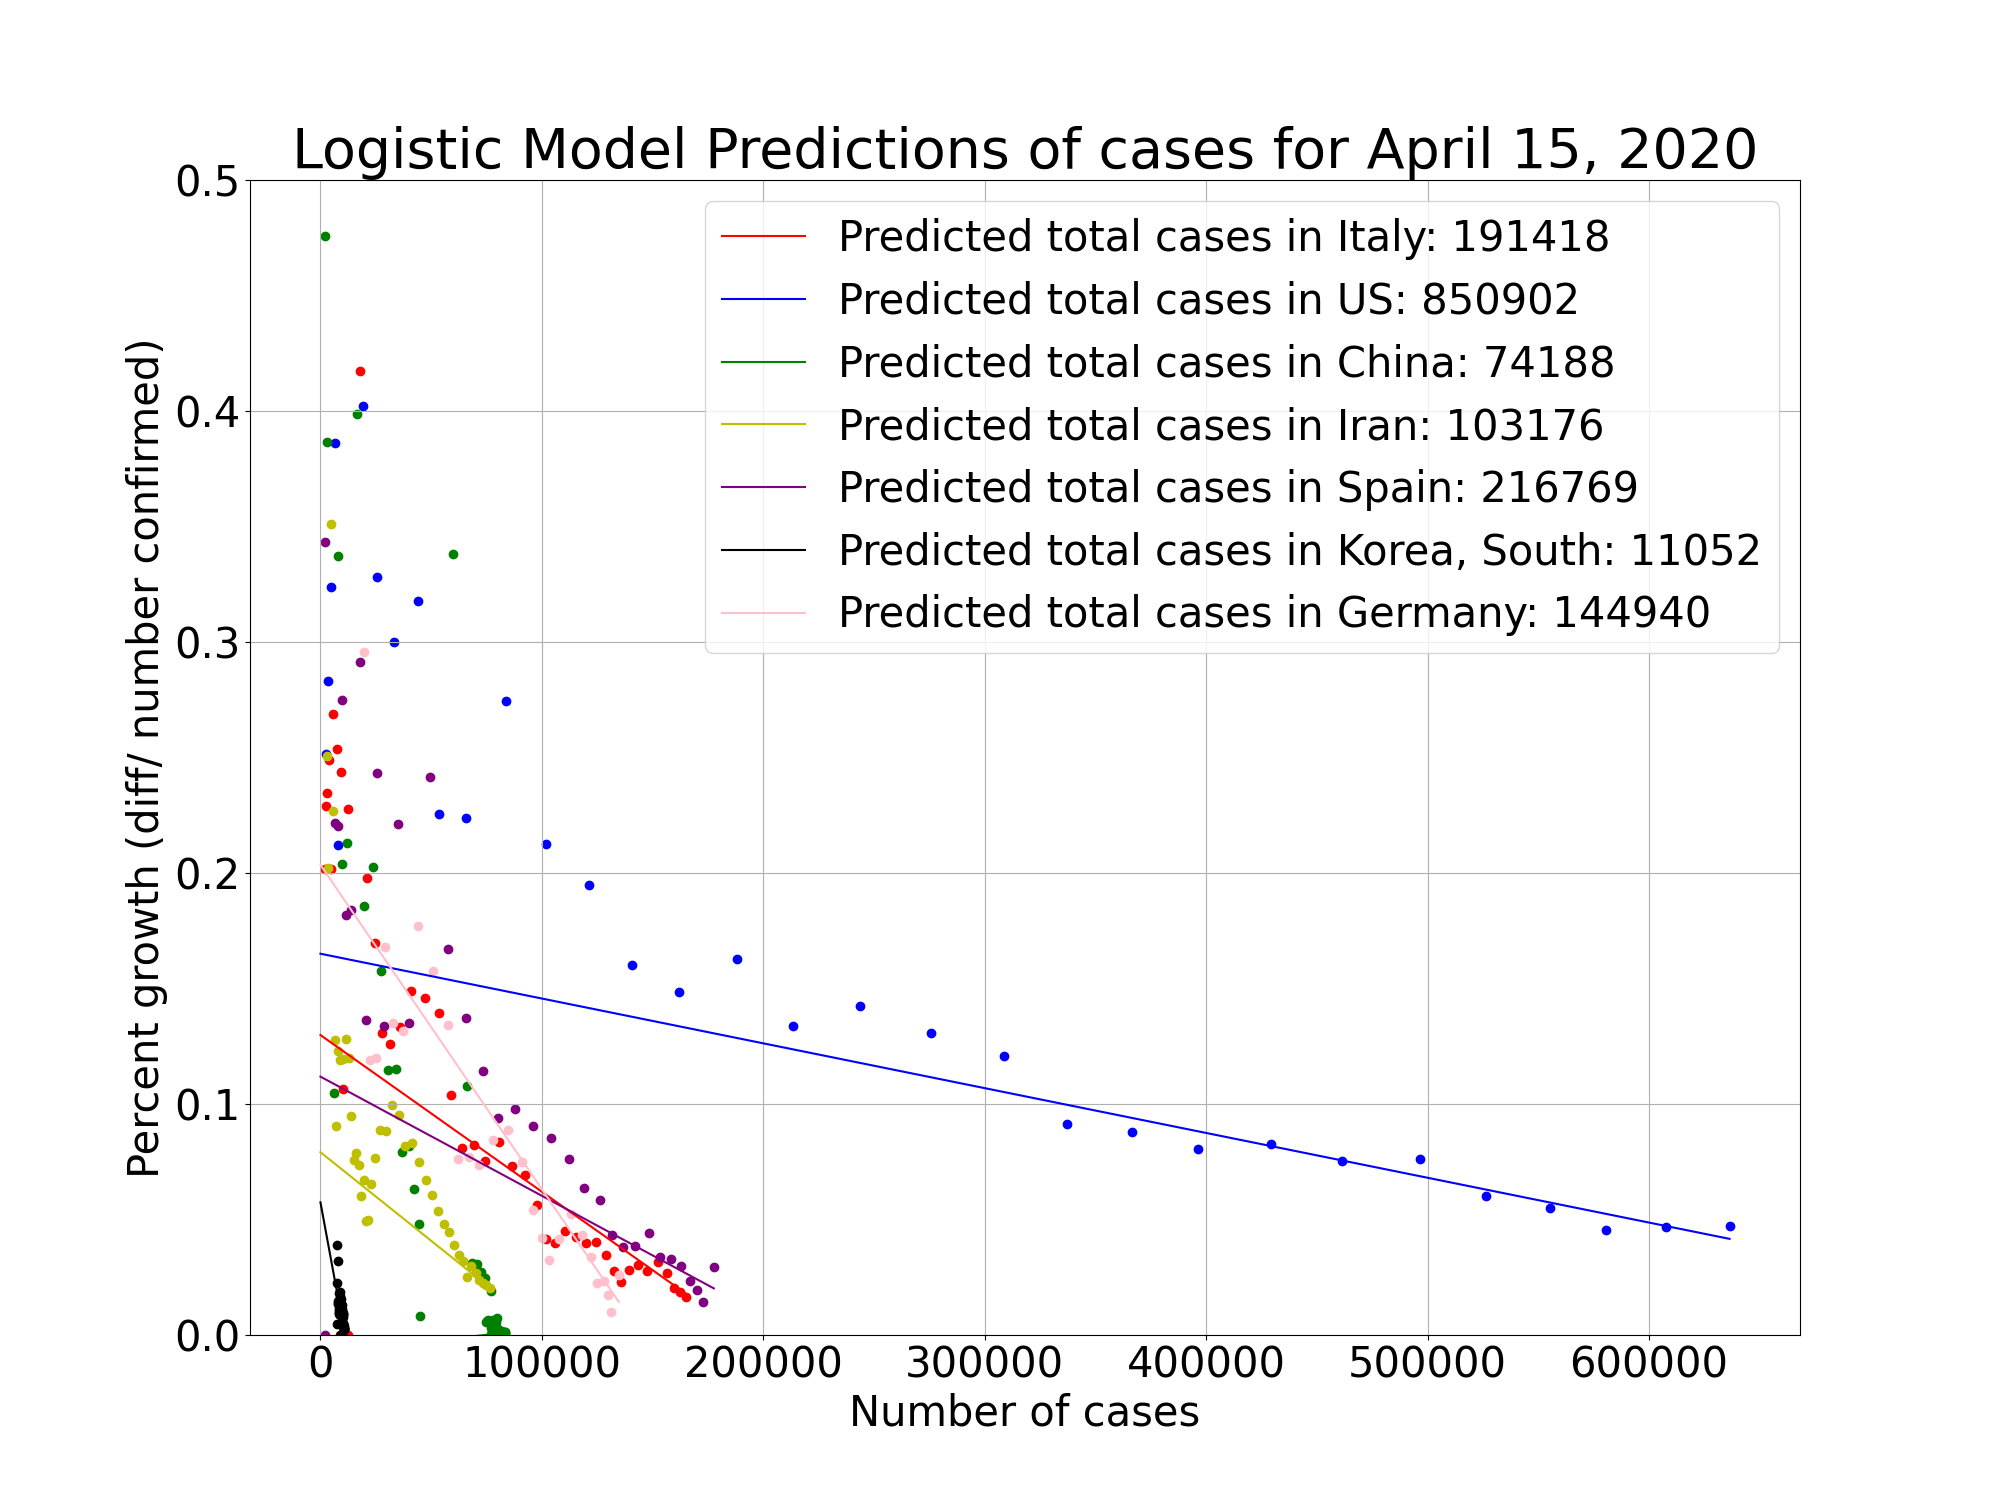
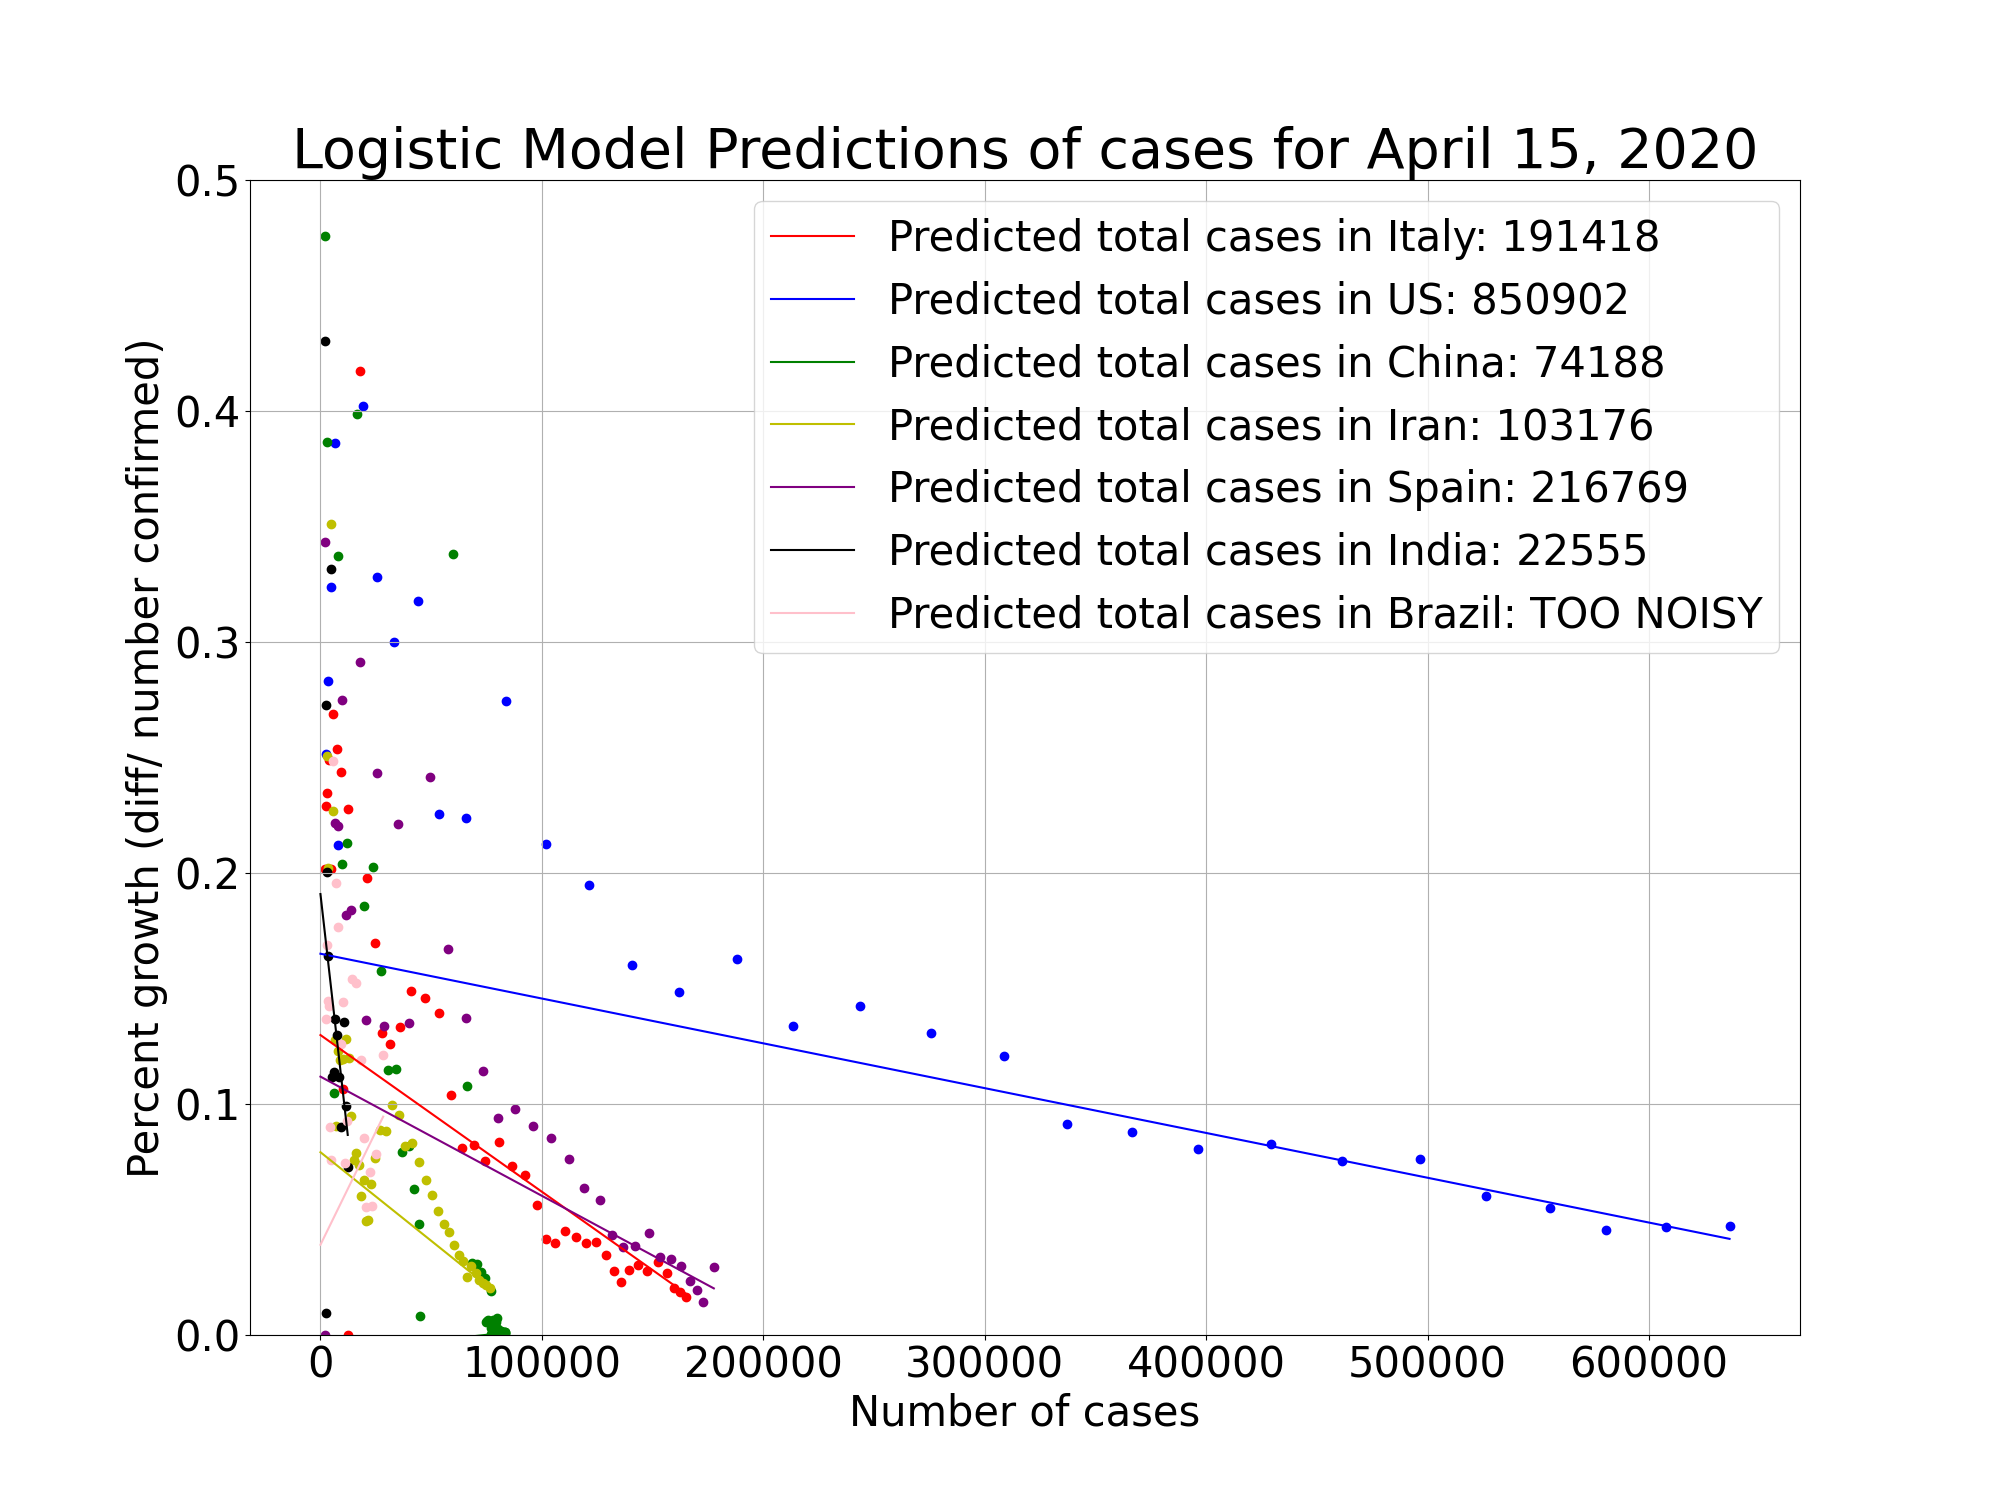
auto update

Changed region(s): [[0.403, 0.1533, 0.868, 0.4293], [0.155, 0.6133, 0.186, 0.8893], [0.279, 0.828, 0.31, 0.8587]]

diff --git a/update_plots.py b/update_plots.py
@@ -25,7 +25,7 @@ plt.rcParams.update({'font.size': 30})
 for data_type in ('cases', 'deaths'):
     legends = []
     plt.figure(figsize=(20, 15))
-    for country, color in (('Italy', 'r'), ('US', 'b'), ('China', 'g'), ('Iran', 'y'), ('Spain', 'purple'), ('Korea, South', 'black'), ('Germany', 'pink')):
+    for country, color in (('Italy', 'r'), ('US', 'b'), ('China', 'g'), ('Iran', 'y'), ('Spain', 'purple'), ('India', 'black'), ('Brazil', 'pink')):
         def filter(x):
             return country == x['Country/Region']
         selected_data = d[d.apply(filter, axis=1)]
